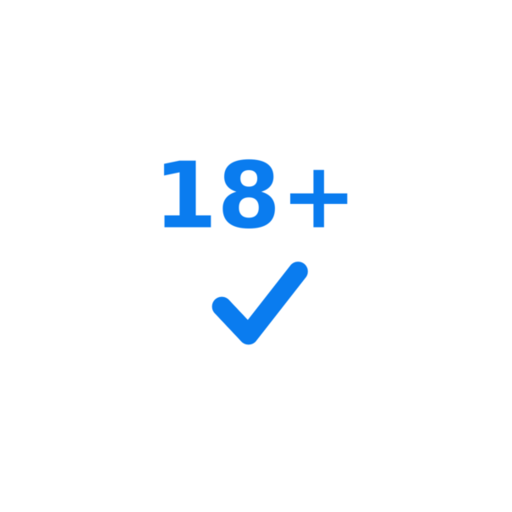
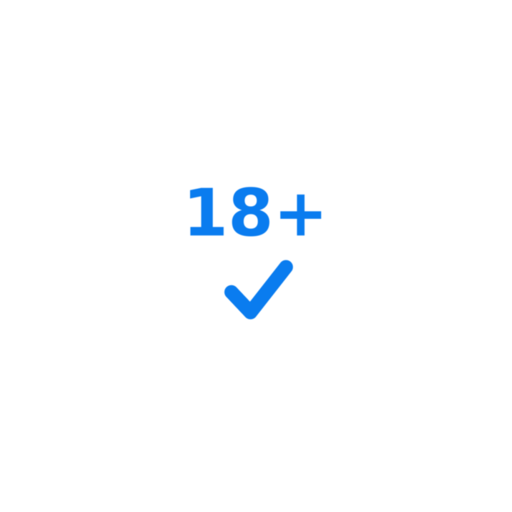
improvements

Changed region(s): [[0.3125, 0.3125, 0.6875, 0.4688], [0.4062, 0.5, 0.625, 0.6875]]

diff --git a/src/app/index.tsx b/src/app/index.tsx
@@ -3,7 +3,7 @@ import * as Haptics from 'expo-haptics';
 import { activateKeepAwakeAsync, deactivateKeepAwake } from 'expo-keep-awake';
 import { SymbolView, type SymbolViewProps } from 'expo-symbols';
 import { useCallback, useEffect, useMemo, useRef, useState } from 'react';
-import { Linking, Platform, Pressable, ScrollView, StyleSheet, View } from 'react-native';
+import { AppState, Linking, Platform, Pressable, ScrollView, StyleSheet, View } from 'react-native';
 import Animated, {
   cancelAnimation,
   Easing,
@@ -217,7 +217,7 @@ function formatRelative(at: number, now: number, t: Strings): string {
 export default function VerifyScreen() {
   const theme = useTheme();
   const s = useStrings();
-  const [permission, requestPermission] = useCameraPermissions();
+  const [permission, requestPermission, getPermission] = useCameraPermissions();
   const [verdict, setVerdict] = useState<{
     presentation: Presentation;
     sticky: boolean;
@@ -289,6 +289,25 @@ export default function VerifyScreen() {
     if (verdictTimer.current) clearTimeout(verdictTimer.current);
     if (assemblyTimer.current) clearTimeout(assemblyTimer.current);
   }, []);
+
+  // When access is permanently blocked, the only way back is the system Settings
+  // screen (reached via the "Open settings" button below). The permission hook
+  // doesn't learn about a change made there, so re-check on foreground: getPermission()
+  // re-queries the OS without prompting and refreshes the hook state.
+  //
+  // Gate this on the *blocked* state specifically. Showing the first-run permission
+  // prompt itself bounces the app through inactive→active, so an unconditional
+  // listener would fire a stale getPermission() that races requestPermission()'s
+  // result — leaving the first-run popup flow flaky. While undetermined we rely on
+  // requestPermission() alone; the listener only exists once we're blocked.
+  const blocked = !!permission && !permission.granted && !permission.canAskAgain;
+  useEffect(() => {
+    if (!cameraAvailable || !blocked) return;
+    const sub = AppState.addEventListener('change', (state) => {
+      if (state === 'active') getPermission().catch(() => {});
+    });
+    return () => sub.remove();
+  }, [cameraAvailable, blocked, getPermission]);
 
   // Keep the screen awake while the camera is live — this is a continuous
   // door/till scanner, so it shouldn't dim or sleep between holders.
@@ -556,7 +575,7 @@ export default function VerifyScreen() {
               ) : (
                 <IdleContent
                   cameraAvailable={cameraAvailable}
-                  blocked={!!permission && !permission.granted && !permission.canAskAgain}
+                  blocked={blocked}
                 />
               )}
             </View>
